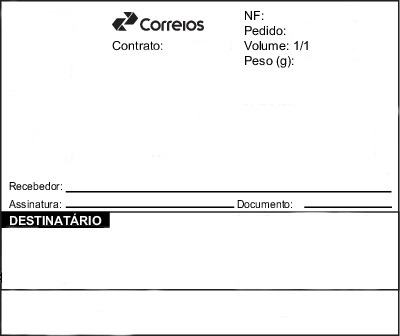
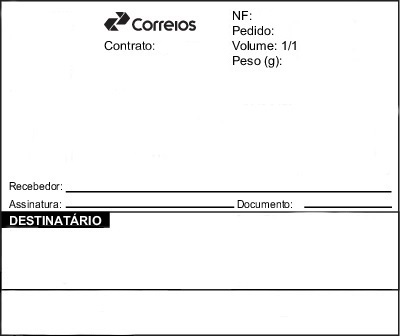
dia 2

diff --git a/Etiqueta.NET/CorreiosTag.cs b/Etiqueta.NET/CorreiosTag.cs
@@ -1,4 +1,5 @@
-using DataMatrix.net;
+using BarcodeLib;
+using DataMatrix.net;
 using System;
 using System.Collections.Generic;
 using System.Drawing;
@@ -74,21 +75,15 @@ namespace Etiqueta.NET.Core
 
         public static void GenerateSix()
         {
-
-            var bmp = GetTemplate(CorreiosTag.Tags.Seis);
-            var Matrix = GenerateDataMatrix("064340300111706434070001170000000000000000000000000000000000000000000000000000000000000000000000000000000000000000000000000000");
-            var icon = GetType(CorreiosTag.TagType.PREMIUM);
-            var codRegistroPoint = new RectangleF(330, 10, 59, 59);
-            var dataMatrix = new RectangleF(10, 10, 70, 70);
-            var contratoXY = new RectangleF(165, 38, 200, 22);
             var tag = new Tag
             {
                 Contrato = 1234567890,
-                Servico = "Sedex Hoje Amanha e Depois",
+                Servico = "Sedex Hoje Amanha",
                 NF = 1234567,
                 Pedido = "123456789",
                 Peso = 123456,
                 Rastreamento = "PP578197848BR",
+
                 Destinatario = "teste teste teste teste teste teste teste teste te",
                 EnderecoDest = "endreco destinatario ausente destinatario ausentee",
                 NumeroDest = 123456,
@@ -99,16 +94,30 @@ namespace Etiqueta.NET.Core
                 UFDest = "SP",
 
                 Remetente = "teste2 teste2 teste2 teste2 teste2 teste2 teste2 2",
-                EndrerecoRemet = "endereco endereco endereco endereco endereco ender", 
+                EndrerecoRemet = "endereco endereco endereco endereco endereco ender",
                 NumeroRemet = 123456,
                 ComplementoRemet = "complemento complemento comple",
                 BairroRemet = "Bairro Bairro Bairro Bairro Bairro Bairro Bairro B",
                 CEPRemet = "12345-678",
                 CidadeRemet = "Vila Bela da Santíssima Trindade",
                 UFRemet = "SP"
-                
+
             };
 
+            var bmp = GetTemplate(CorreiosTag.Tags.Seis);
+            var Matrix = GenerateDataMatrix("064340300111706434070001170000000000000000000000000000000000000000000000000000000000000000000000000000000000000000000000000000");
+            var icon = GetType(CorreiosTag.TagType.PREMIUM);
+            var imgCodigoBarrasZip = GerarCodBarrasCep(tag.CEPDest);
+            var codRegistroPoint = new RectangleF(338, 10, 59, 59);
+            var dataMatrix = new RectangleF(10, 10, 70, 70);
+            var contratoXY = new RectangleF(155, 38, 200, 22);
+            var servicoXY = new RectangleF(100, 50, 200, 22);
+            var nfXY = new RectangleF(250, 8, 200, 22);
+            var pedidoXY = new RectangleF(271, 23, 200, 22);
+            var pesoXY = new RectangleF(282, 53, 200, 22);
+            var rastreamentoXY = new RectangleF(100, 70, 200, 22);
+            var destinatarioXY = new RectangleF(10, 230, 300, 40);
+            var imgCodbarraXY = new RectangleF(260, 220, 130, 70);
 
 
 
@@ -120,8 +129,22 @@ namespace Etiqueta.NET.Core
             // var format = "{0}\n{1}\n{2}, {3}\n{4}  {5} - {6}";
             g.DrawImage(icon, codRegistroPoint);
             g.DrawImage(Matrix, dataMatrix);
-            g.DrawString(tag.Contrato.ToString(), new Font("Arial", 9, FontStyle.Bold), Brushes.Black, contratoXY);
+            g.DrawImage(imgCodigoBarrasZip, imgCodbarraXY);
+            using (var font = new Font("Arial", 9, FontStyle.Bold))
+            {
+                g.DrawString(tag.Contrato.ToString(), font, Brushes.Black, contratoXY);
+                g.DrawString(tag.Servico.ToString(), font, Brushes.Black, servicoXY);
+                g.DrawString(tag.Rastreamento.ToString(), font, Brushes.Black, rastreamentoXY);
+            }
 
+            using (var font = new Font("Arial", 9, FontStyle.Regular))
+            {
+                g.DrawString(tag.NF.ToString(), font, Brushes.Black, nfXY);
+                g.DrawString(tag.Pedido.ToString(), font, Brushes.Black, pedidoXY);
+                g.DrawString(tag.Peso.ToString(), font, Brushes.Black, pesoXY);
+                g.DrawString(tag.Destinatario.ToString(), font, Brushes.Black, destinatarioXY);
+
+            }
             //g.DrawString("dsadaas", new Font("Arial", 12, FontStyle.Bold), Brushes.Black, codRegistroPoint);
             var fileName = "label-" + DateTime.Now.ToString("dd-MM-yyyy-hh-mm-ss-fff") + ".jpg";
             g.Flush();
@@ -213,6 +236,24 @@ namespace Etiqueta.NET.Core
             return bmp;
         }
 
+        private static Image GerarCodBarrasCep(String cep)
+        {
+            using (var barcode = new Barcode
+            {
+                Alignment = AlignmentPositions.LEFT,
+                Width = 300,
+                RotateFlipType = RotateFlipType.RotateNoneFlipNone,
+                BackColor = Color.White,
+                ForeColor = Color.Black,
+               // LabelPosition = LabelPositions.TOPLEFT,
+               // LabelFont = new Font(FontFamily.GenericSerif, 20, FontStyle.Bold),
+                //IncludeLabel = true
+            })
+            {
+                var img = barcode.Encode(TYPE.CODE128, cep);
+                return img;
+            }
+        }
         #endregion
     }
 }
